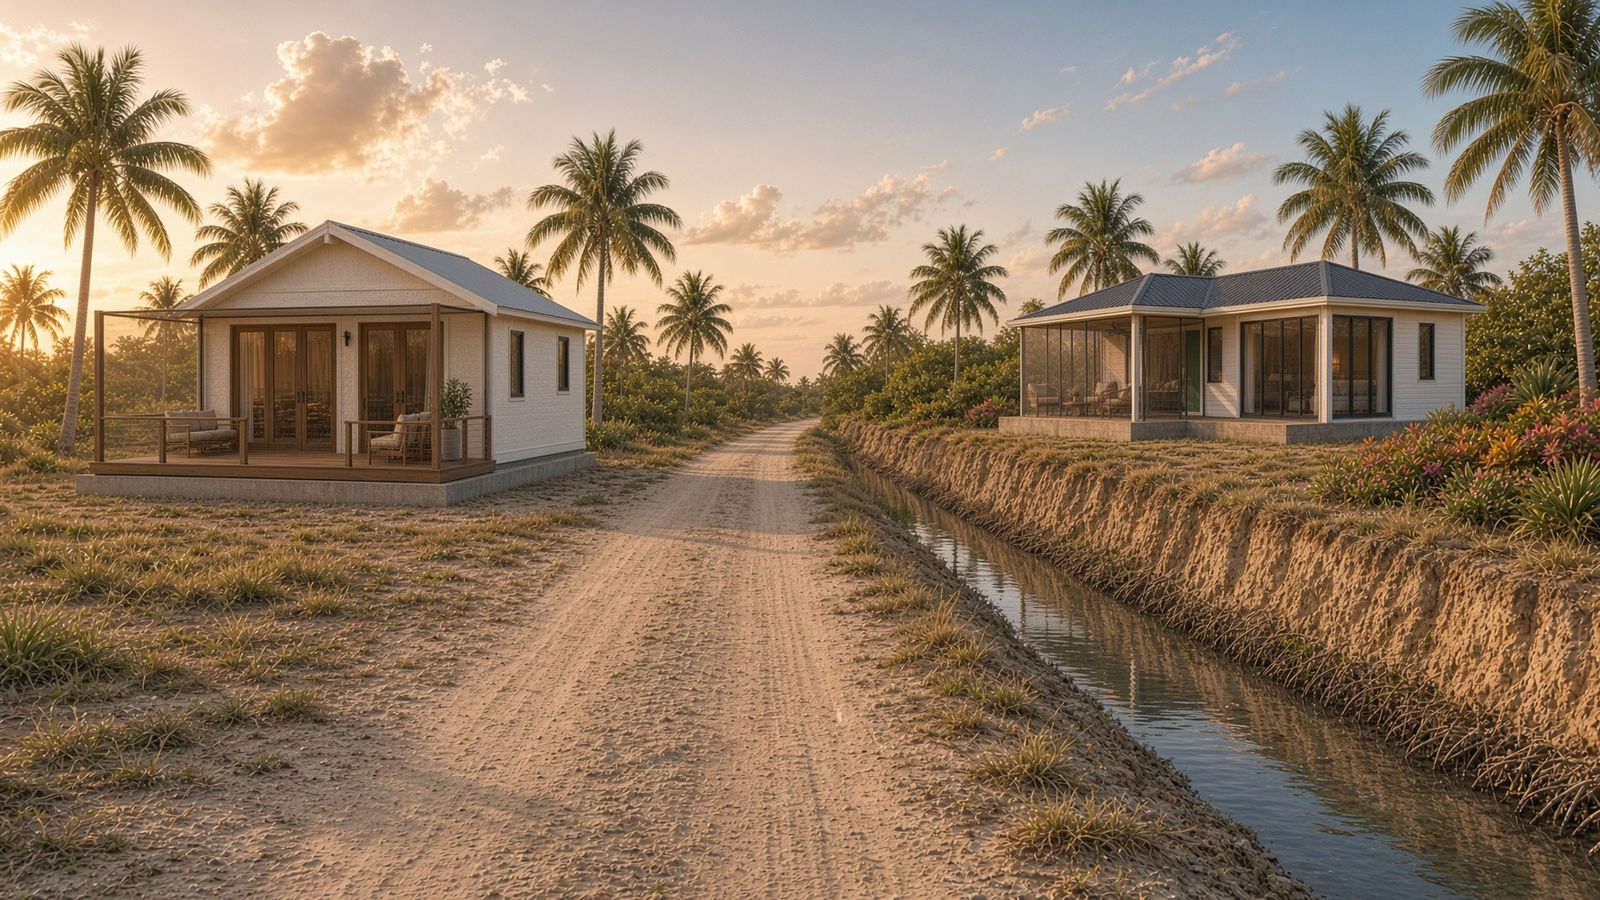
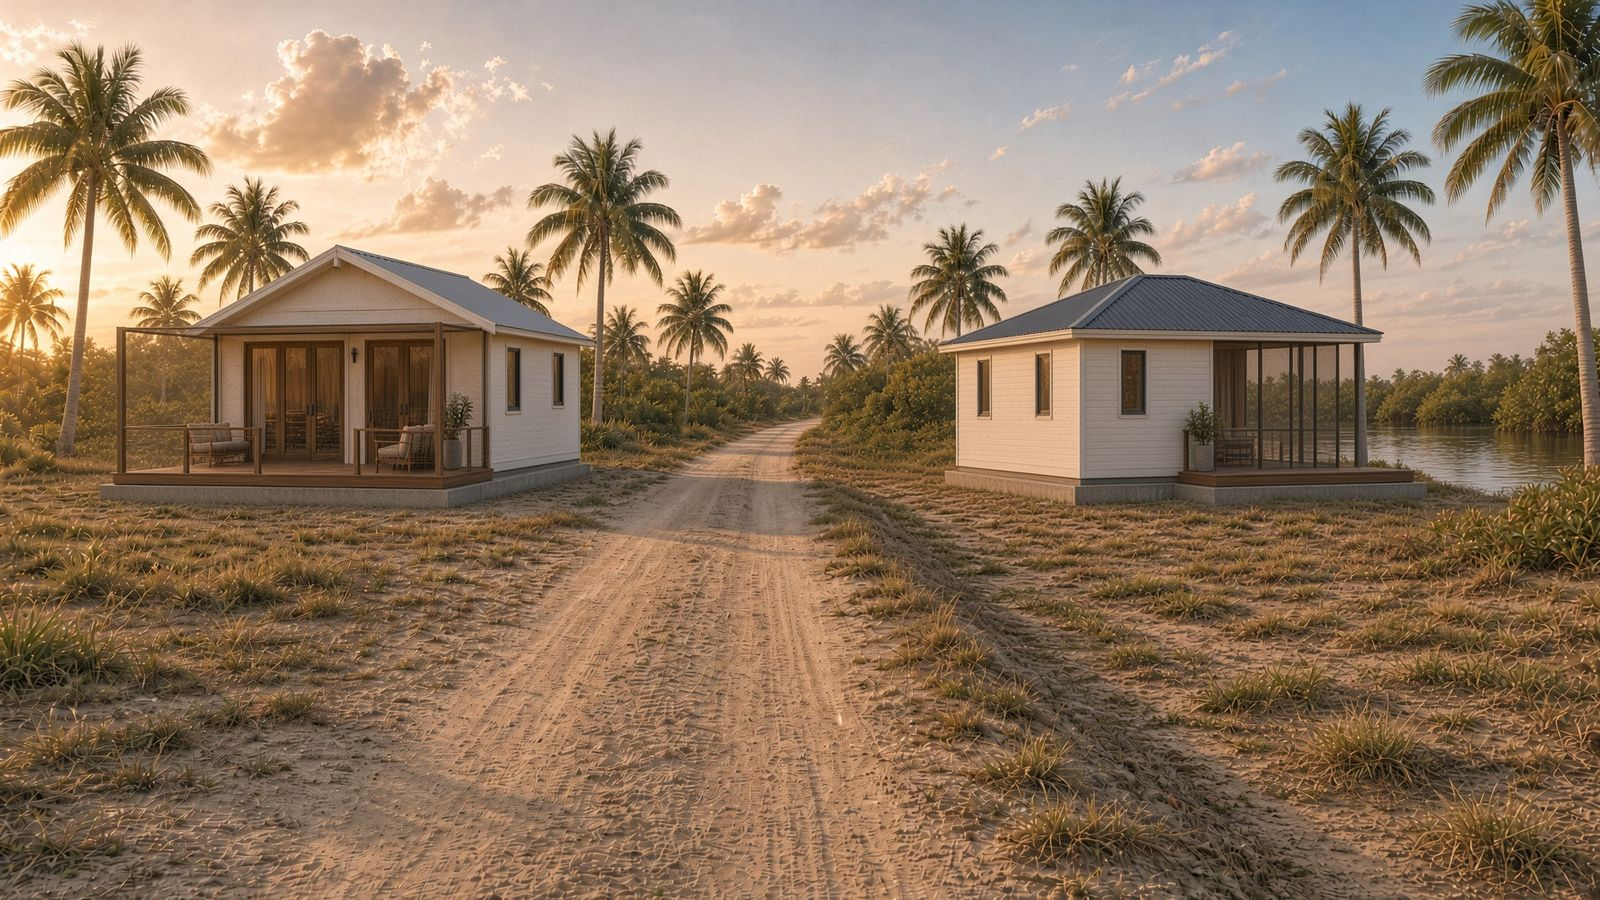
Replace only the pair shot: dry road, 115 deck to the canal, 127 deck to the street.

diff --git a/public/canal-homes/lot-115/index.html b/public/canal-homes/lot-115/index.html
@@ -48,7 +48,7 @@
       </figure>
       <figure class="wide">
         <img src="images/pair.jpg" alt="Dirt road between Lot 127 inland and Lot 115 on the canal" />
-        <figcaption>The dirt road sits between Lot 127 (inland, left) and Lot 115 (canal bank, right)</figcaption>
+        <figcaption>Dirt road between the lots. Lot 127 deck faces the road. Lot 115 deck faces the canal, away from the street.</figcaption>
       </figure>
     </section>
 

diff --git a/public/canal-homes/lot-127/index.html b/public/canal-homes/lot-127/index.html
@@ -47,7 +47,7 @@
       </figure>
       <figure class="wide">
         <img src="images/pair.jpg" alt="Dirt road between Lot 127 inland and Lot 115 on the canal" />
-        <figcaption>Left: Lot 127 on dry land. Road in the middle. Right: Lot 115 on the canal bank.</figcaption>
+        <figcaption>Left: Lot 127 inland, deck facing the road. Right: Lot 115, deck facing the canal. No water beside the road.</figcaption>
       </figure>
     </section>
 
